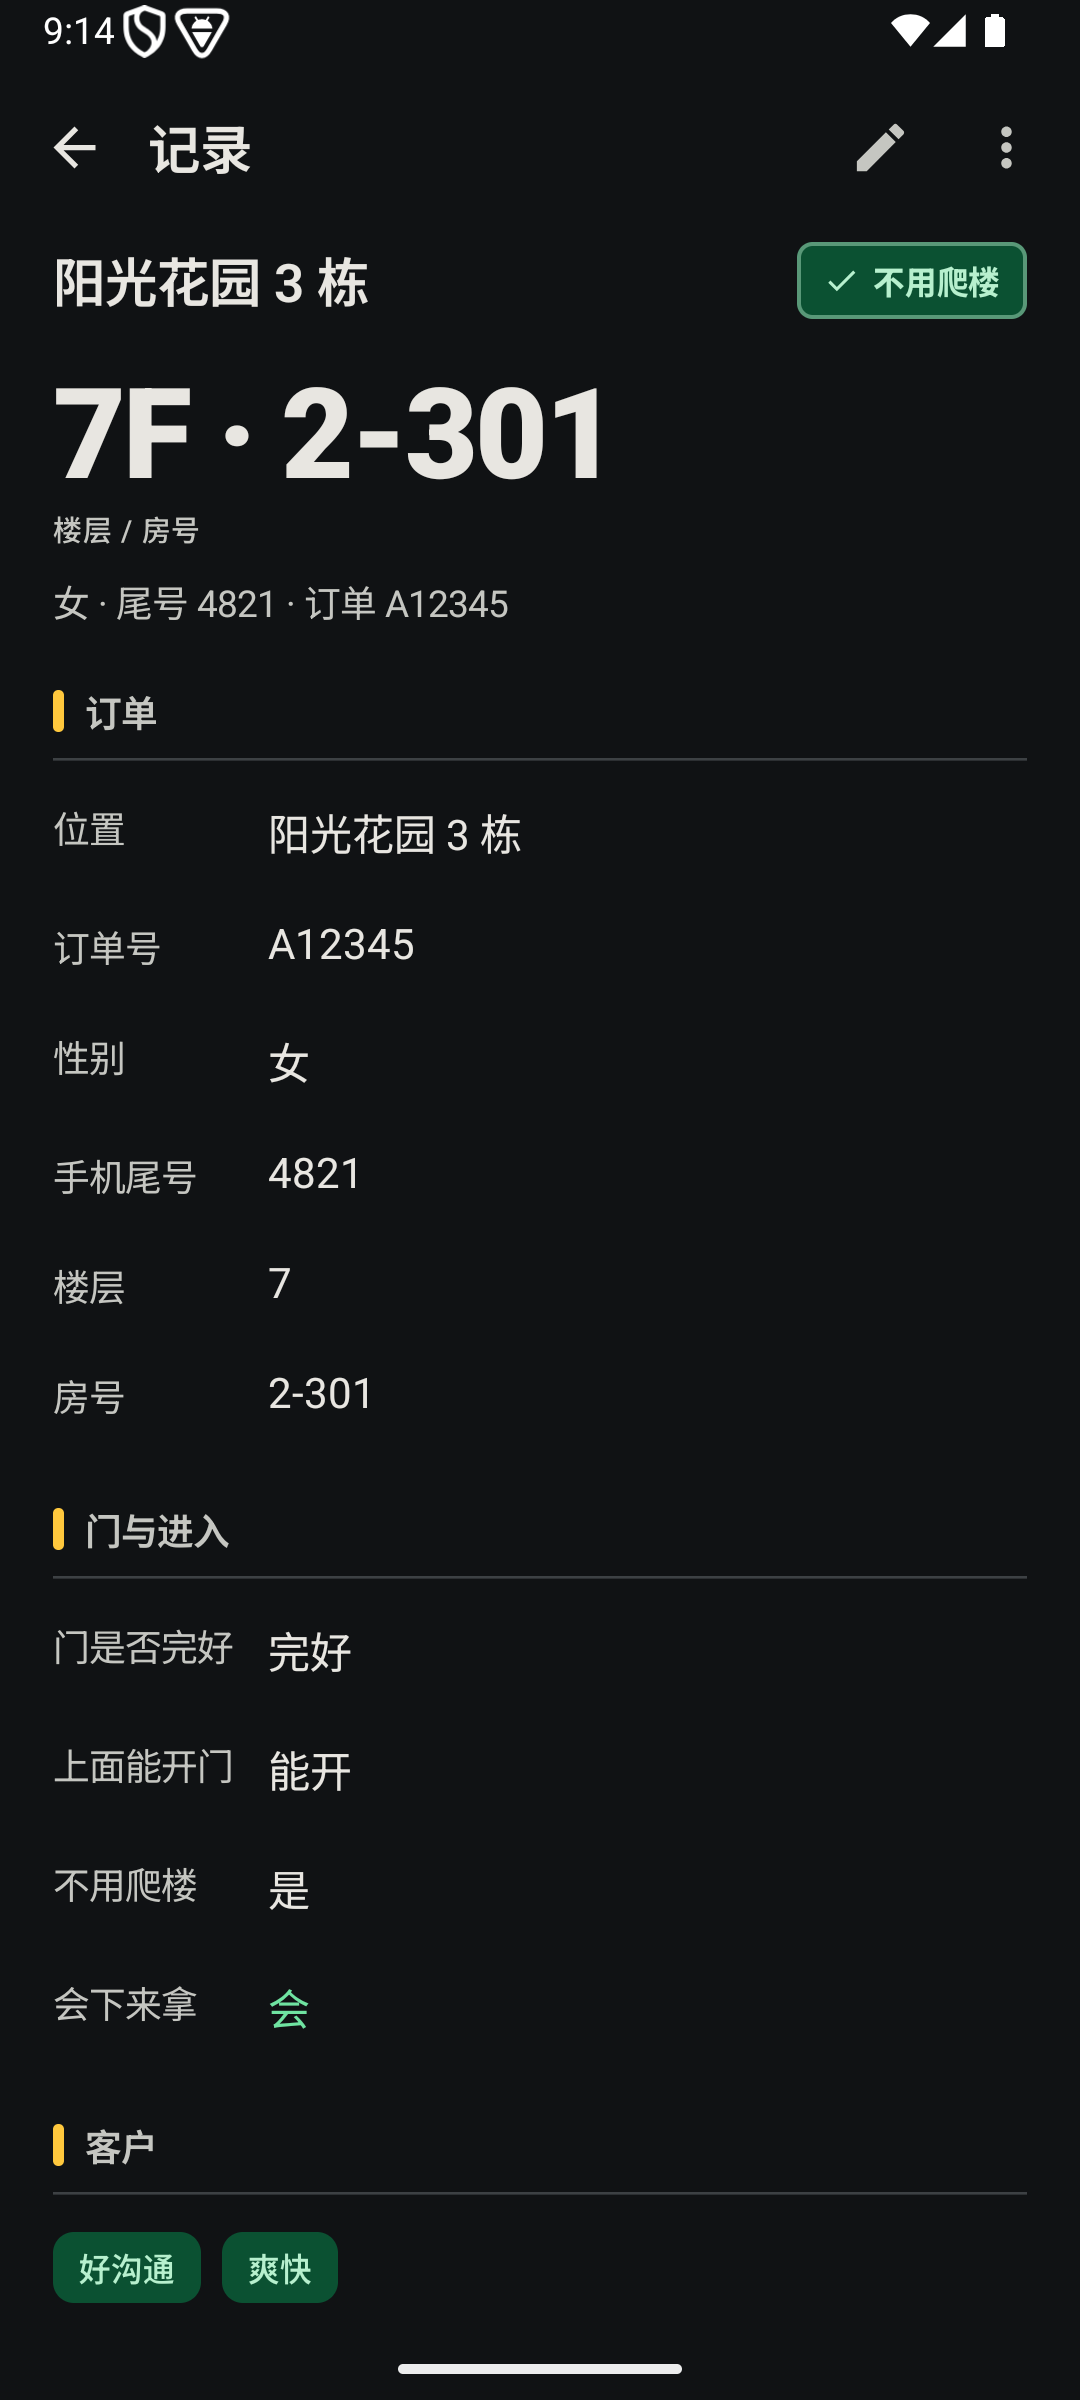
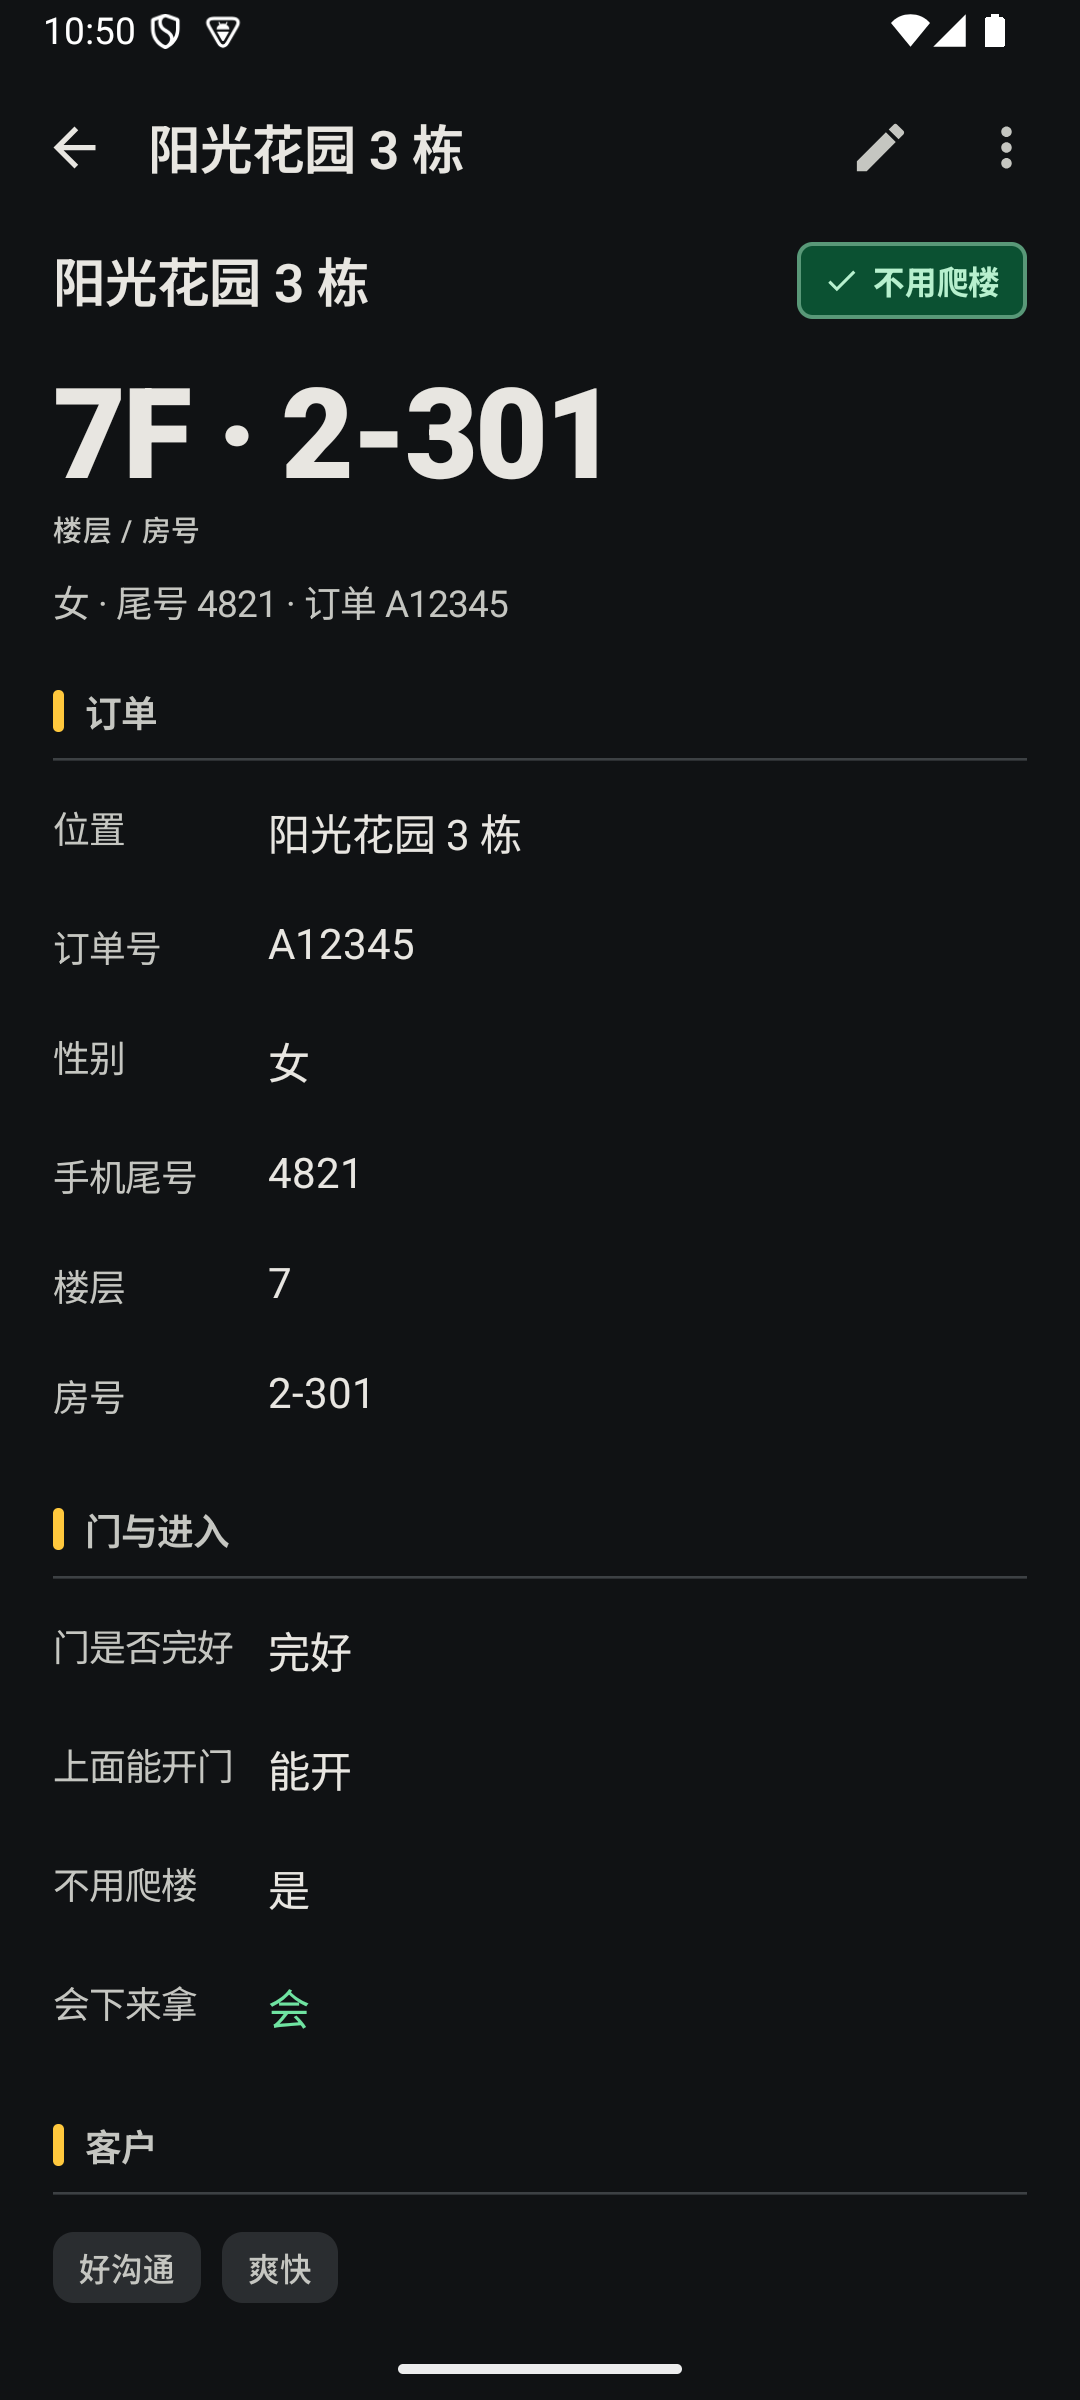
楼记 v1.0.4：完成 finish review 的视觉与文案收尾

Changed region(s): [[0.0306, 0.0, 0.4278, 0.0938], [0.0306, 0.9062, 0.3361, 0.9688]]

diff --git a/app/src/main/java/com/quabtun/louji/ui/detail/RecordDetailScreen.kt b/app/src/main/java/com/quabtun/louji/ui/detail/RecordDetailScreen.kt
@@ -105,7 +105,14 @@ fun RecordDetailScreen(
         containerColor = MaterialTheme.colorScheme.background,
         topBar = {
             TopAppBar(
-                title = { Text("记录", style = MaterialTheme.typography.titleLarge) },
+                title = {
+                    Text(
+                        text = record?.record?.location ?: "记录",
+                        style = MaterialTheme.typography.titleLarge,
+                        maxLines = 1,
+                        overflow = TextOverflow.Ellipsis,
+                    )
+                },
                 navigationIcon = {
                     IconButton(onClick = onBack, modifier = Modifier.testTag("detail_back")) {
                         Icon(
@@ -323,8 +330,8 @@ fun RecordDetailScreen(
                                 ) {
                                     item.record.personalityTags.forEach { tag ->
                                         Surface(
-                                            color = MaterialTheme.colorScheme.secondaryContainer,
-                                            contentColor = MaterialTheme.colorScheme.onSecondaryContainer,
+                                            color = MaterialTheme.colorScheme.surfaceVariant,
+                                            contentColor = MaterialTheme.colorScheme.onSurfaceVariant,
                                             shape = RoundedCornerShape(8.dp),
                                         ) {
                                             Text(
@@ -383,12 +390,14 @@ fun RecordDetailScreen(
                             OutlinedButton(
                                 onClick = { onEdit(item.record.id) },
                                 modifier = Modifier.weight(1f),
+                                shape = RoundedCornerShape(12.dp),
                             ) {
                                 Text("编辑记录")
                             }
                             OutlinedButton(
                                 onClick = { onDuplicate(item.record.id) },
                                 modifier = Modifier.weight(1f),
+                                shape = RoundedCornerShape(12.dp),
                             ) {
                                 Text("再来一单")
                             }

diff --git a/app/src/main/java/com/quabtun/louji/ui/update/UpdateSheet.kt b/app/src/main/java/com/quabtun/louji/ui/update/UpdateSheet.kt
@@ -9,6 +9,7 @@ import androidx.compose.foundation.layout.heightIn
 import androidx.compose.foundation.layout.padding
 import androidx.compose.foundation.layout.size
 import androidx.compose.foundation.rememberScrollState
+import androidx.compose.foundation.shape.RoundedCornerShape
 import androidx.compose.foundation.verticalScroll
 import androidx.compose.material.icons.Icons
 import androidx.compose.material.icons.filled.Check
@@ -106,6 +107,7 @@ fun UpdateSheet(
                         modifier = Modifier
                             .fillMaxWidth()
                             .height(50.dp),
+                        shape = RoundedCornerShape(12.dp),
                         colors = ButtonDefaults.buttonColors(
                             containerColor = MaterialTheme.colorScheme.primaryContainer,
                             contentColor = MaterialTheme.colorScheme.onPrimaryContainer,
@@ -152,6 +154,7 @@ fun UpdateSheet(
                         modifier = Modifier
                             .fillMaxWidth()
                             .height(50.dp),
+                        shape = RoundedCornerShape(12.dp),
                         colors = ButtonDefaults.buttonColors(
                             containerColor = MaterialTheme.colorScheme.primaryContainer,
                             contentColor = MaterialTheme.colorScheme.onPrimaryContainer,
@@ -175,6 +178,7 @@ fun UpdateSheet(
                         modifier = Modifier
                             .fillMaxWidth()
                             .height(50.dp),
+                        shape = RoundedCornerShape(12.dp),
                         colors = ButtonDefaults.buttonColors(
                             containerColor = MaterialTheme.colorScheme.primaryContainer,
                             contentColor = MaterialTheme.colorScheme.onPrimaryContainer,

diff --git a/app/src/main/java/com/quabtun/louji/ui/list/RecordListScreen.kt b/app/src/main/java/com/quabtun/louji/ui/list/RecordListScreen.kt
@@ -170,7 +170,10 @@ fun RecordListScreen(
                             },
                             action = {
                                 if (query.isBlank() && filter == RecordFilter.ALL) {
-                                    FilledTonalButton(onClick = onCreate) {
+                                    FilledTonalButton(
+                                        onClick = onCreate,
+                                        shape = RoundedCornerShape(12.dp),
+                                    ) {
                                         Text("记下第一单")
                                     }
                                 } else {
@@ -193,7 +196,7 @@ fun RecordListScreen(
                     contentColor = MaterialTheme.colorScheme.onPrimaryContainer,
                     modifier = Modifier
                         .align(Alignment.BottomEnd)
-                        .padding(end = 4.dp, bottom = 20.dp)
+                        .padding(end = 20.dp, bottom = 20.dp)
                         .testTag("create_record"),
                 ) {
                     Icon(Icons.Filled.Add, contentDescription = "记一单")

diff --git a/app/src/main/java/com/quabtun/louji/ui/settings/SettingsScreen.kt b/app/src/main/java/com/quabtun/louji/ui/settings/SettingsScreen.kt
@@ -170,7 +170,7 @@ fun SettingsScreen(
                 SettingsRow(
                     title = "导出备份",
                     subtitle = "打包记录和全部附件为 zip，包含客户信息，请妥善保管",
-                    icon = R.drawable.ic_backup,
+                    icon = R.drawable.ic_export,
                     onClick = {
                         exportLauncher.launch(backupFileName())
                     },
@@ -184,7 +184,7 @@ fun SettingsScreen(
                     },
                 )
                 SettingsRow(
-                    title = "存储占用",
+                    title = "媒体占用",
                     subtitle = storage?.let {
                         "${formatBytes(it.totalBytes)} · ${it.itemCount} 个文件"
                     } ?: "正在计算…",

diff --git a/docs/TEST_REPORT.md b/docs/TEST_REPORT.md
@@ -1,7 +1,7 @@
 # 楼记 · 测试与缺陷检测报告
 
 日期：2026-11-02
-版本：1.0.3
+版本：1.0.4
 设备：Android Emulator `RiderClimbApi35`，API 35，x86_64，1080×2400 / 420dpi，后置模拟相机
 主机：Windows 10，JDK 17.0.20.1，Gradle 8.5，AGP 8.2.2，compileSdk/targetSdk 34，minSdk 24
 
@@ -9,14 +9,14 @@
 
 | 项目 | 结果 | 证据 |
 | --- | --- | --- |
-| JVM 单元测试 | 17 / 17 通过 | `app/build/reports/tests/testDebugUnitTest/` |
+| JVM 单元测试 | 19 / 19 通过 | `app/build/reports/tests/testDebugUnitTest/` |
 | 仪器化测试（API 35） | 12 / 12 通过 | `app/build/reports/androidTests/connected/debug/` |
 | Android Lint | 0 error（仅依赖更新等 warning） | `app/build/reports/lint-results-debug.html` |
 | Mimosa 深度安全扫描 | 0 findings，63 packages | `scan-2026-11-01T20-54-01.461Z-dd8d97b7a711` |
-| Release APK | 已签名，3.8 MB | `apksigner verify` 通过 |
-| 应用内更新 E2E | 待 v1.0.1 发布后补充 | 见第 6 节 |
+| Release APK | 已签名，3.8 MB（v1.0.4，versionCode 5） | `apksigner verify` 通过 |
+| 应用内更新 E2E | 通过（v1.0.0 → v1.0.2 → v1.0.3 → v1.0.4） | 见第 6 节、`docs/screenshots/update-*.png` |
 
-## 2. 单元测试（17）
+## 2. 单元测试（19）
 
 命令：
 
@@ -30,8 +30,9 @@
 - `RecordValidatorTest`：位置必填、4 位尾号、媒体上限、完整表单通过、默认值不算有效内容。
 - `FormattersTest`：楼层显示（7 → 7F、B1）、空值占位、时长、摘要包含全部关键字段。
 - `BackupJsonTest`：`BackupRecord` / `BackupManifest` 序列化往返、缺省字段兼容。
+- `InstallTargetTest`：Ready 与 NeedsPermission 都能解析出安装目标，其他状态返回 null（权限重试回归测试）。
 
-> Windows 中文项目路径下，Gradle 的 JVM 测试 worker 可能无法加载测试类。通过 ASCII 目录联接运行（`D:\louji-build` → 项目目录）后 17 / 17 通过；APK、Lint、仪器化测试不受影响。详见 README「Windows 中文路径说明」。
+> Windows 中文项目路径下，Gradle 的 JVM 测试 worker 可能无法加载测试类。通过 ASCII 目录联接运行（`D:\louji-build` → 项目目录）后 19 / 19 通过；APK、Lint、仪器化测试不受影响。详见 README「Windows 中文路径说明」。
 
 ## 3. 仪器化测试（12，API 35 模拟器）
 
@@ -112,18 +113,31 @@
 | 横屏/大字体下 FAB 遮挡卡片文字 | 改为图标 FAB；印章移到卡片左侧；时间移到左侧；FAB 锚定内容列 |
 | 列表「上面不能开」详情用红色，像错误 | 改为琥珀色事实提示；只有门损坏/删除用红色 |
 | 设置里清除记录/隐私误用门图标 | 换成垃圾桶 / 信息 / 链接 vector |
+| 最终 finish review：列表门有问题不够醒目 | 列表门有问题使用错误色；v1.0.4 截图已验证浅色/深色 |
+| 最终 finish review：FAB 超出卡片边距 | FAB 改为与内容列 20dp 边距对齐 |
+| 最终 finish review：详情滚动后丢失记录身份 | app bar 标题改为当前位置名，滚动后仍可识别 |
+| 最终 finish review：设置「存储占用」与记录数矛盾 | 改为「媒体占用」，明确只统计照片/视频 |
+| 最终 finish review：客户标签占用信号绿 | 标签改为中性表面色；绿色只保留给免爬/会下来 |
+| 最终 finish review：更新说明像开发者日志 | v1.0.3/v1.0.4 Release notes 改写为骑手可读语言 |
+| 最终 finish review：按钮圆角/图标方向不一致 | 更新弹层、详情次要按钮统一 12dp；导出/导入图标区分 |
 
 ## 6. 应用内更新 E2E
 
-（v1.0.1 发布后补充：安装 v1.0.0 → 设置检查更新 → 发现 v1.0.1 → 下载 → 校验 → 系统安装器 → 覆盖安装成功。附截图与版本信息。）
+安装 v1.0.0 → 设置检查更新 → 发现最新 v1.0.2 → 下载（进度到 100%）→ 系统安装器 → 覆盖安装，数据保留；随后 v1.0.2 → v1.0.3、v1.0.3 → v1.0.4 再次走完整链路，最终版本 **v1.0.4（versionCode 5）**。
+
+- 发现并修复：在系统设置允许安装未知应用后，「我已允许，重试安装」原先只接受 `Ready` 状态，`NeedsPermission` 状态下点了没有反应。v1.0.3 同时接受两种状态，并新增 `InstallTargetTest` 回归测试。
+- 更新弹层：下载 / 安装按钮使用安全琥珀；release notes 的 Markdown 标题和列表符号会被清理。
+- 证据：`docs/screenshots/update-available.png`、`update-ready.png`、`update-installed.png`。
+- 安装器与数据：覆盖安装使用同一签名（SHA-256 `48d7799e…`），安装后仍在列表看到 v1.0.0 创建的记录。
 
 ## 7. 证据目录
 
 - `docs/screenshots/home-light.png` / `home-dark.png` / `home-font13.png` / `home-landscape.png`
-- `docs/screenshots/form-edit.png`
+- `docs/screenshots/form-edit.png` / `form-dark.png` / `form-font13.png` / `form-landscape.png`
 - `docs/screenshots/detail.png` / `detail-dark.png` / `detail-media.png`
 - `docs/screenshots/settings.png` / `settings-dark.png`
 - `docs/screenshots/viewer-photo.png` / `viewer-video.png`
+- `docs/screenshots/update-available.png` / `update-ready.png` / `update-installed.png`
 - `app/build/reports/tests/testDebugUnitTest/index.html`
 - `app/build/reports/androidTests/connected/debug/index.html`
 - `app/build/reports/lint-results-debug.html`
@@ -134,5 +148,6 @@
 
 - 首版无云同步、账号、应用锁、Play 商店上架。
 - 相机预览在软件 GPU 的 `screencap` 中为黑屏，但文件与播放正常。
-- GitHub Actions 发布工作流需要用户配置签名 Secrets；v1.0.0 / v1.0.1 使用本地签名发布。
+- GitHub Actions 发布工作流需要用户配置签名 Secrets；v1.0.0 / v1.0.1 / v1.0.2 / v1.0.3 / v1.0.4 使用本地签名发布。
+- 当前 GitHub 账号 Actions 因计费被锁定，CI 工作流已在仓库中禁用；本地测试、Lint、Mimosa 与发布已全部完成。
 - 签名密钥丢失后无法覆盖安装新版本；README 已标注备份要求。

diff --git a/CHANGELOG.md b/CHANGELOG.md
@@ -1,5 +1,15 @@
 # 变更记录
 
+## v1.0.4 — 2026-11-02
+
+- 列表：门有问题的记录使用错误色提示；FAB 与内容列的 20dp 边距对齐。
+- 详情：顶部 app bar 显示当前位置名，滚动后仍能认出记录。
+- 设置：「媒体占用」明确只统计照片/视频；导出/导入图标区分方向。
+- 客户性格标签改为中性表面色，不再占用「免爬」的信号绿。
+- 更新弹层与详情次要按钮统一为 12dp 圆角。
+- 更新说明改写为骑手可读的语言，去掉设计/构建术语。
+- 截取 v1.0.4 最终视觉证据，补齐 1.3× 字体与横屏表单。
+
 ## v1.0.3 — 2026-11-02
 
 - 修复「允许安装未知应用」后点「我已允许，重试安装」没有反应的问题：重试现在同时接受 Ready 与 NeedsPermission 状态。
